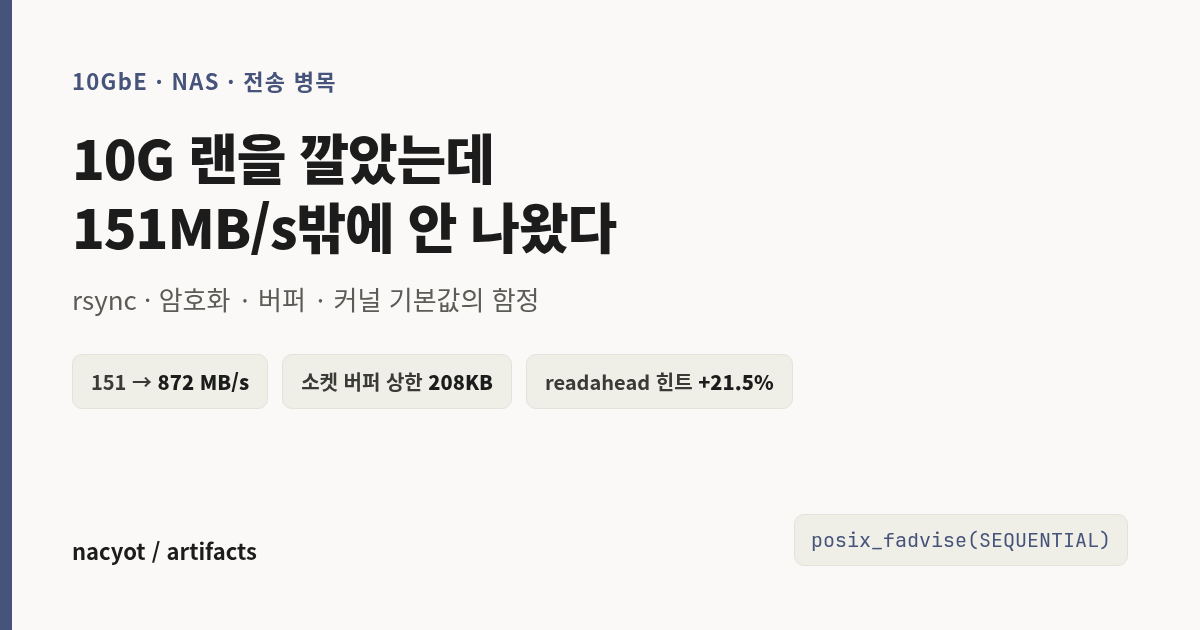
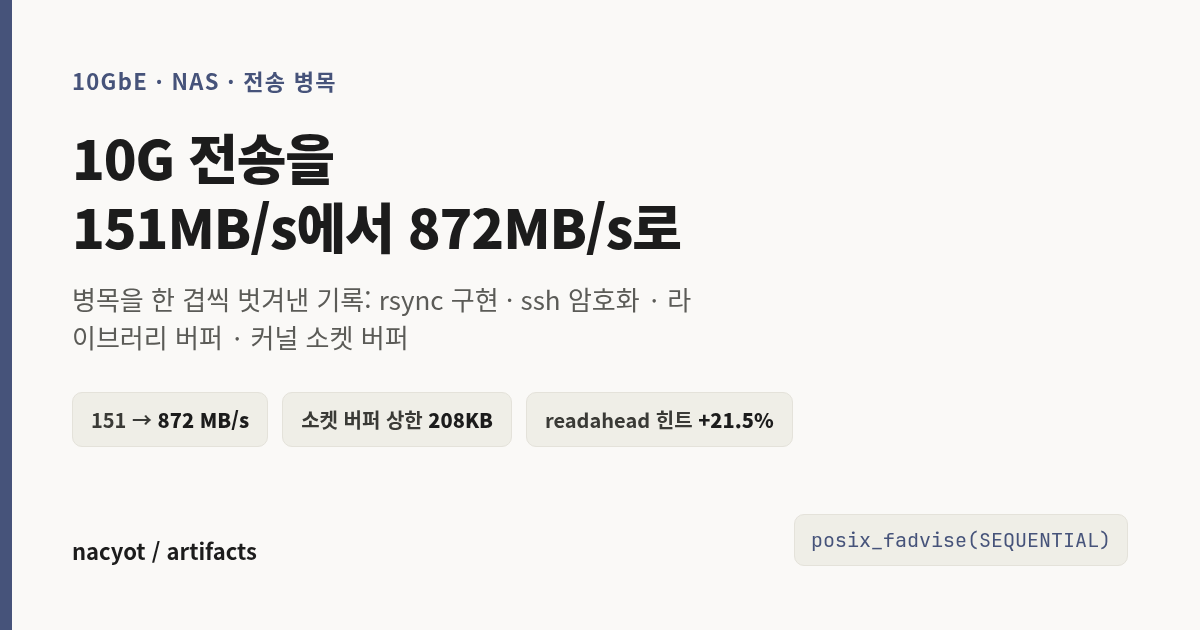
아티팩트 추가: DGX Spark 2대 DeepSeek V4 Flash 0731 + 10gbe 제목 개선
- deepseek-v4-flash-2x-dgx-spark: 2노드 vLLM TP=2 원본 FP8 실측
  95케이스 벤치, d3 인터랙티브 차트 5종, 참고 자료 카드 12건
  호스트명·시리얼·MAC·내부 IP·계정명 제거

- 10gbe-transfer-bottlenecks: 제목을 개선 과정이 드러나게 교체
  "10G 랜을 깔았는데 151MB/s밖에 안 나왔다"
  → "10G 전송을 151MB/s에서 872MB/s로: 병목을 한 겹씩 벗겨낸 기록"

Changed region(s): [[0.0617, 0.4524, 0.6475, 0.6937], [0.1542, 0.2111, 0.5858, 0.4222]]

diff --git a/10gbe-transfer-bottlenecks/index.html b/10gbe-transfer-bottlenecks/index.html
@@ -7,19 +7,19 @@
 <meta property="og:site_name" content="nacyot / artifacts">
 <meta property="og:locale" content="ko_KR">
 <meta property="og:url" content="https://nacyot.github.io/artifacts/10gbe-transfer-bottlenecks/">
-<meta property="og:title" content="10G 랜을 깔았는데 151MB/s밖에 안 나왔다">
+<meta property="og:title" content="10G 전송을 151MB/s에서 872MB/s로: 병목을 한 겹씩 벗겨낸 기록">
 <meta property="og:description" content="10GbE 홈랩에서 NAS 전송이 151MB/s에 묶인 원인을 한 겹씩 벗겨낸 기록. rsync 구현, ssh 암호화, 라이브러리 버퍼, 커널 소켓 버퍼 상한, 그리고 readahead 힌트까지. 최종 872MB/s.">
 <meta property="og:image" content="https://nacyot.github.io/artifacts/10gbe-transfer-bottlenecks/og.png">
 <meta property="og:image:type" content="image/png">
 <meta property="og:image:width" content="1200">
 <meta property="og:image:height" content="630">
-<meta property="og:image:alt" content="10G 랜을 깔았는데 151MB/s밖에 안 나왔다">
+<meta property="og:image:alt" content="10G 전송을 151MB/s에서 872MB/s로: 병목을 한 겹씩 벗겨낸 기록">
 <meta name="twitter:card" content="summary_large_image">
-<meta name="twitter:title" content="10G 랜을 깔았는데 151MB/s밖에 안 나왔다">
+<meta name="twitter:title" content="10G 전송을 151MB/s에서 872MB/s로: 병목을 한 겹씩 벗겨낸 기록">
 <meta name="twitter:description" content="10GbE 홈랩에서 NAS 전송이 151MB/s에 묶인 원인을 한 겹씩 벗겨낸 기록. rsync 구현, ssh 암호화, 라이브러리 버퍼, 커널 소켓 버퍼 상한, 그리고 readahead 힌트까지. 최종 872MB/s.">
 <meta name="twitter:image" content="https://nacyot.github.io/artifacts/10gbe-transfer-bottlenecks/og.png">
-<meta name="twitter:image:alt" content="10G 랜을 깔았는데 151MB/s밖에 안 나왔다">
-<title>10G 랜을 깔았는데 151MB/s밖에 안 나왔다</title>
+<meta name="twitter:image:alt" content="10G 전송을 151MB/s에서 872MB/s로: 병목을 한 겹씩 벗겨낸 기록">
+<title>10G 전송을 151MB/s에서 872MB/s로: 병목을 한 겹씩 벗겨낸 기록</title>
 <style>
   :root{--paper:#faf9f7;--ink:#1c1c1c;--soft:#5b5b57;--faint:#b7b5ad;--rule:#e4e2da;--barbg:#eceae2;--bar:#cbc9bf;--bar-hi:#4a4a46;--box:#f3f2ec}
   *{box-sizing:border-box}
@@ -63,7 +63,7 @@
 <p class="crumb"><a href="https://nacyot.github.io/artifacts/">← nacyot / artifacts</a></p>
 
 
-<h1>10G 랜을 깔았는데 151MB/s밖에 안 나왔다</h1>
+<h1>10G 전송을 151MB/s에서 872MB/s로: 병목을 한 겹씩 벗겨낸 기록</h1>
 <p class="pubdate">2026-08-10</p>
 
 <p class="lead">

diff --git a/10gbe-transfer-bottlenecks/og.html b/10gbe-transfer-bottlenecks/og.html
@@ -18,8 +18,8 @@
 <div class="bar"></div>
 <div class="wrap">
   <div class="kicker">10GbE · NAS · 전송 병목</div>
-  <h1>10G 랜을 깔았는데<br>151MB/s밖에 안 나왔다</h1>
-  <div class="sub">rsync · 암호화 · 버퍼 · 커널 기본값의 함정</div>
+  <h1>10G 전송을<br>151MB/s에서 872MB/s로</h1>
+  <div class="sub">병목을 한 겹씩 벗겨낸 기록: rsync 구현 · ssh 암호화 · 라이브러리 버퍼 · 커널 소켓 버퍼</div>
   <div class="stats">
     <div class="chip">151 → <b>872 MB/s</b></div>
     <div class="chip">소켓 버퍼 상한 <b>208KB</b></div>

diff --git a/index.html b/index.html
@@ -67,7 +67,7 @@
 </a>
 
 <a class="item" href="./10gbe-transfer-bottlenecks/">
-  <h2>10G 랜을 깔았는데 151MB/s밖에 안 나왔다</h2>
+  <h2>10G 전송을 151MB/s에서 872MB/s로: 병목을 한 겹씩 벗겨낸 기록</h2>
   <p>10GbE 홈랩 NAS 전송이 링크 용량의 7분의 1에 묶인 원인을 한 겹씩 벗겨낸 기록. rsync 구현·ssh 암호화·라이브러리 버퍼·커널 소켓 버퍼 상한, 그리고 readahead 힌트로 최종 872MB/s.</p>
   <div class="meta">
     <span class="tag">실측</span>

diff --git a/README.md b/README.md
@@ -12,7 +12,7 @@
 | 날짜 | 산출물 | 설명 |
 |---|---|---|
 | 2026-08-11 | [deepseek-v4-flash-2x-dgx-spark](./deepseek-v4-flash-2x-dgx-spark/) | DGX Spark 2노드에 DeepSeek V4 Flash 0731 원본 FP8(166.9GB)을 vLLM TP=2로 서빙한 실측: 컨텍스트·클럭 무관한 디코드, 전성비 최적점, 95케이스 벤치 |
-| 2026-08-10 | [10gbe-transfer-bottlenecks](./10gbe-transfer-bottlenecks/) | 10G 랜인데 151MB/s: rsync 구현·ssh 암호화·라이브러리 버퍼·커널 소켓 버퍼 상한을 한 겹씩 벗겨 872MB/s까지 (readahead 힌트 A/B 검증 포함) |
+| 2026-08-10 | [10gbe-transfer-bottlenecks](./10gbe-transfer-bottlenecks/) | 10G 전송 151MB/s → 872MB/s: rsync 구현·ssh 암호화·라이브러리 버퍼·커널 소켓 버퍼 상한을 한 겹씩 벗겨낸 기록 (readahead 힌트 A/B 검증 포함) |
 | 2026-08-10 | [gb10-gpu-clock-cap](./gb10-gpu-clock-cap/) | GB10 전력 상한: -pl 없음, nvidia-smi -lgc 클럭 캡으로 70W→40W 실측 + systemd 영속 + PD 고착 버그 구분 |
 | 2026-07-28 | [dvorak-dubeolsik](./dvorak-dubeolsik/) | Dvorak에서 두벌식이 깨지는 이유: Windows·macOS에 없는 조합을 libhangul·fcitx5-hangul 소스 패치로 근본 해결 (우회 실패·부작용 타임라인, 키보드 배열 시각화) |
 | 2026-07-25 | [claude-code-install-pitfalls](./claude-code-install-pitfalls/) | Opus 5가 나왔는데 "최신" 클로드 코드엔 4.8만: stable 채널 고착이 범인. 필요한 버전(2.1.220 · latest 채널)과 점검 레시피 (docker 컨테이너 실측) |
